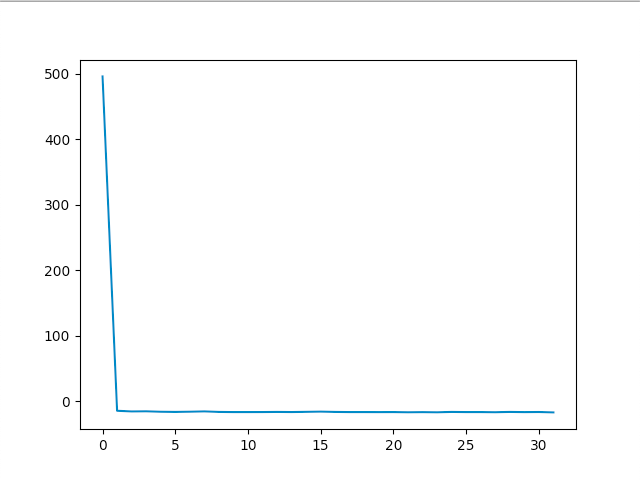
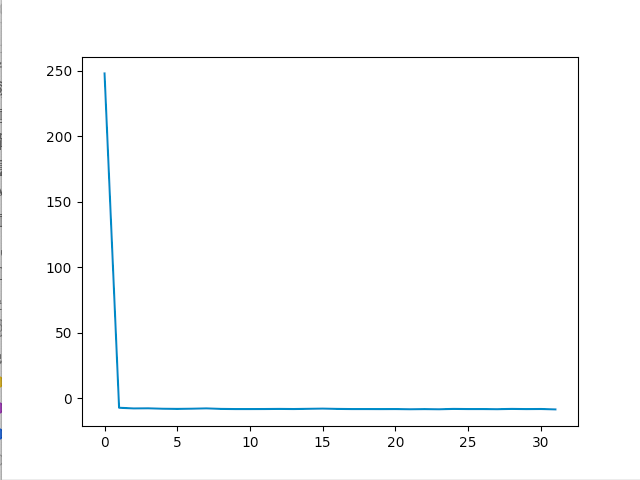
test 8

diff --git a/tool/fft_radix2.m b/tool/fft_radix2.m
@@ -2,7 +2,7 @@ t = 0:31;
 f = 0:31;
 
 % NOTE: input range = (-32,32)
-x = 5*cos(t)+sin(5*t);
+x = 0.5 * t;
 x = round(x,3);
 y = zeros(1,32);
 
@@ -39,7 +39,7 @@ sgtitle('Matlab FFT');
 %}
 
 
-dlmwrite('input_10.txt',x,'\n');
+dlmwrite('input_8.txt',x,'\n');
 %dlmwrite('output_real_2.txt',real(y),'\n');
 %dlmwrite('output_imag_2.txt',imag(y),'\n');
 
